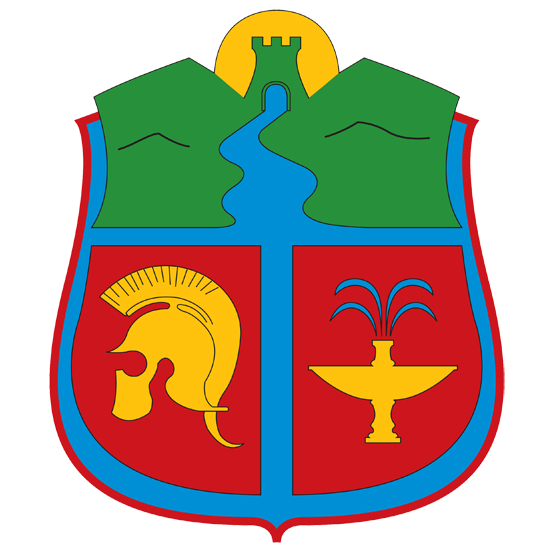
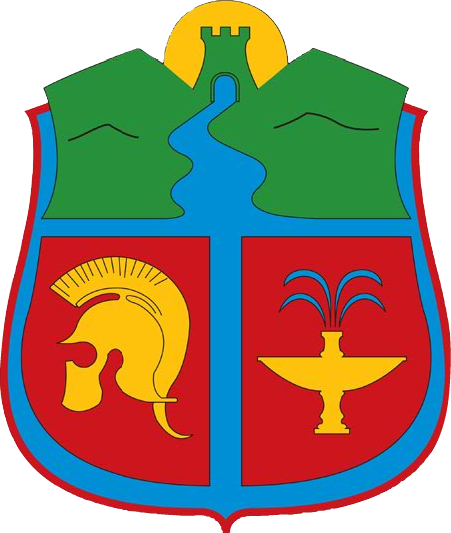
jpg > png

diff --git a/Mobilni-okruzi.html b/Mobilni-okruzi.html
@@ -276,7 +276,7 @@ h9 {
             
        <a class="btn-index-mob center" href="stranice/5-Juznobanatski okrug/index-juznobanatski.html" style="color: white">Južnobanatski okrug
           
-          <img  align="right" src="stranice/5-Juznobanatski okrug/Pancevo/Pancevo-coat_of_arms.jpg" alt="" style="width:3.8rem;">
+          <img  align="right" src="stranice/5-Juznobanatski okrug/Pancevo/Pancevo-coat_of_arms.png" alt="" style="width:4.5rem;">
           
        </a>
            
@@ -342,7 +342,7 @@ h9 {
              
        <a class="btn-index-mob center" href="stranice/15-Pirotski okrug/index-pirotski.html" style="color: white">Pirotski okrug
           
-            <img  align="right" src="stranice/15-Pirotski okrug/Pirot/Blason_de_Pirot.jpg" alt="" style="width:4rem;"> 
+            <img  align="right" src="stranice/15-Pirotski okrug/Pirot/Blason_de_Pirot.png" alt="" style="width:4rem;"> 
            
        </a>
             
@@ -355,7 +355,7 @@ h9 {
              
        <a class="btn-index-mob center" href="stranice/17-Pomoravski okrug/index-pomoravski.html" style="color: white">Pomoravski okrug
          
-            <img  align="right" src="stranice/17-Pomoravski okrug/Jagodina/Grb_opstine_Jagodina.jpg" alt="" style="width:5rem;"> 
+            <img  align="right" src="stranice/17-Pomoravski okrug/Jagodina/Grb_opstine_Jagodina.png" alt="" style="width:5rem;"> 
           
        </a>
             
@@ -373,13 +373,13 @@ h9 {
             
        <a class="btn-index-mob center" href="stranice/20-Rasinski okrug/index-rasinski.html" style="color: white">Rasinski okrug
          
-            <img  align="right" src="stranice/20-Rasinski okrug/Krusevac/Grb_ks.jpg" alt="" style="width:5rem;"> 
+            <img  align="right" src="stranice/20-Rasinski okrug/Krusevac/Grb_ks.png" alt="" style="width:4.5rem;"> 
          
        </a>
            
        <a class="btn-index-mob center" href="stranice/21-Raski okrug/index-raski.html" style="color: white">Raški okrug
         
-            <img  align="right" src="stranice/21-Raski okrug/Kraljevo/Coat_of_arms_of_Kraljevo.jpg" alt="" style="width:5rem;"> 
+            <img  align="right" src="stranice/21-Raski okrug/Kraljevo/Coat_of_arms_of_Kraljevo.png" alt="" style="width:5rem;"> 
          
        </a>
            
@@ -391,7 +391,7 @@ h9 {
            
        <a class="btn-index-mob center" href="stranice/23-Severnobacki okrug/index-severnobacki.html" style="color: white">Severnobački okrug
      
-            <img  align="right" src="stranice/23-Severnobacki okrug/Subotica/Grb_subotice.jpg" alt="" style="width:5rem;"> 
+            <img  align="right" src="stranice/23-Severnobacki okrug/Subotica/Grb_subotice.png" alt="" style="width:5rem;"> 
             
        </a>
            
@@ -409,13 +409,13 @@ h9 {
            
        <a class="btn-index-mob center" href="stranice/26-Toplicki okrug/index-toplicki.html" style="color: white">Toplički okrug
         
-            <img  align="right" src="stranice/26-Toplicki okrug/Prokuplje/COA_Prokuplje.jpg" alt="" style="width:4.4rem;"> 
+            <img  align="right" src="stranice/26-Toplicki okrug/Prokuplje/COA_Prokuplje.png" alt="" style="width:4.4rem;"> 
          
        </a>
            
        <a class="btn-index-mob center" href="stranice/27-Sumadijski okrug/index-sumadijski.html" style="color: white">Šumadijski okrug
        
-            <img  align="right" src="stranice/27-Sumadijski okrug/Kragujevac/Grb-Kragujevac.jpg" alt="" style="width:5rem;"> 
+            <img  align="right" src="stranice/27-Sumadijski okrug/Kragujevac/Grb-Kragujevac.png" alt="" style="width:5rem;"> 
          
        </a>
           

diff --git a/stranice/5-Juznobanatski okrug/Vrsac/Vrsac.html b/stranice/5-Juznobanatski okrug/Vrsac/Vrsac.html
@@ -1,3 +1,4 @@
+
 <!DOCTYPE html>
 
 <html>
